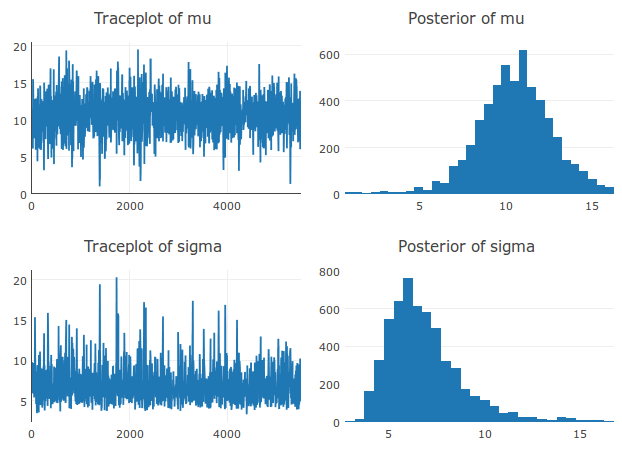
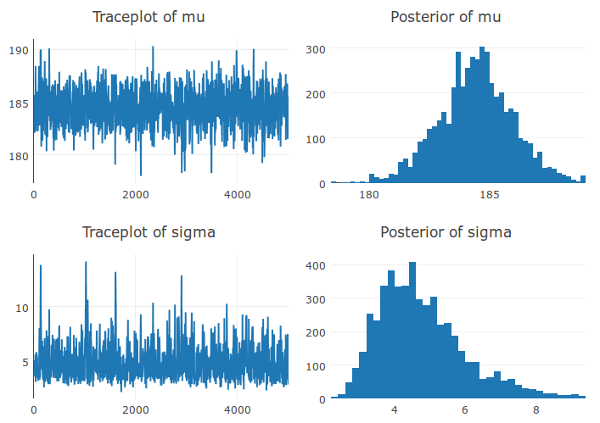
More readme fixes...

diff --git a/README.md b/README.md
@@ -1,6 +1,6 @@
-# bayes.js
+# bayes.js - MCMC and Bayes in the browser
 
-A small toy javascript MCMC framework that can be used fit Bayesian models in the browser. I call it "toy" because I would use it for fun, but not in production...
+bayes.js A small toy javascript MCMC framework that can be used fit Bayesian models in the browser. I call it "toy" because I would use it for fun, but not in production...
 
 The two major files are:
 
@@ -16,7 +16,8 @@ Given that **mcmc.js** and **distributions.js** have been imported, here is how 
 
 
 ```JavaScript
-var data = [3, 14, 11, 20, 10, 1, 14, 15, 5, 13];
+// The heights of the last ten American presidents in cm, from Kennedy to Obama 
+var data = [183, 192, 182, 183, 177, 185, 188, 188, 182, 185];
 
 var params = {
   mu: {type: "real"},
@@ -50,9 +51,10 @@ And here is a plot of the resulting sample made in javascript using the [plotly.
 How to implement a custom Bayesian model
 -----------------------------------------
 
-In __mcmc.js__ the currently sole sampler is `AmwgSampler`. A general purpose MCMC sample that can be used to fit a wide range of models *in theory*. In practice `AmwgSampler` can work well as long as there are not too many parameters. Here it's hard to specify what is "too many" but generally <10 parameters should be fine but >100 might be too many, but it depends. As AmwgSampler is a Gibbs sampler it also becomes crippled when the parameters are correlated.
+In __mcmc.js__ the currently sole sampler is `AmwgSampler`: An adaptive, general purpose MCMC sample that can be used to fit a wide range of models *in theory*. In practice `AmwgSampler` can work well as long as there are not too many parameters. Here it's hard to specify what is "too many" but generally <10 parameters should be fine but >100 might be too many, but it depends. As AmwgSampler is a Gibbs sampler it also becomes crippled when the parameters are correlated. 
 
 Here is how to create an instance of `AmwgSampler` and to produce a number of samples from a model defined by `params` and `log_post`:
+
 ```JavaScript
 var sampler = new mcmc.AmwgSampler(params, log_post, data);
 var samples = sampler.sample(1000)
@@ -187,7 +189,7 @@ It is also possible to control how the sampler adapts its proposal, where the tw
 * `batch_size` - The number of steps between each update of the `prop_log_scale`. Defaults to 50.
 * `max_adaptation` - The maximum amount `prop_log_scale` is changed each batch update. Defaults to 0.33.
 
-If you want to know more about what these settings do I urge you to read the rather accessible paper by Roberts and Rosenthal (2009) ](http://probability.ca/jeff/ftpdir/adaptex.pdf). These options can also be given to specific parameters by supplying a `params` value overriding options for one or more parameters. For example, `var options = {max_adaptation: 0.5, params: { mu: {max_adaptation: 0.1} } }` would use `max_adaptation: 0.5` for all parameters except for `mu` which would get `max_adaptation: 0.1`.
+If you want to know more about what these settings do I urge you to read the rather accessible paper by [Roberts and Rosenthal (2009) ](http://probability.ca/jeff/ftpdir/adaptex.pdf). These options can also be given to specific parameters by supplying a `params` value overriding options for one or more parameters. For example, `var options = {max_adaptation: 0.5, params: { mu: {max_adaptation: 0.1} } }` would use `max_adaptation: 0.5` for all parameters except for `mu` which would get `max_adaptation: 0.1`.
 
 
 ### All together now
